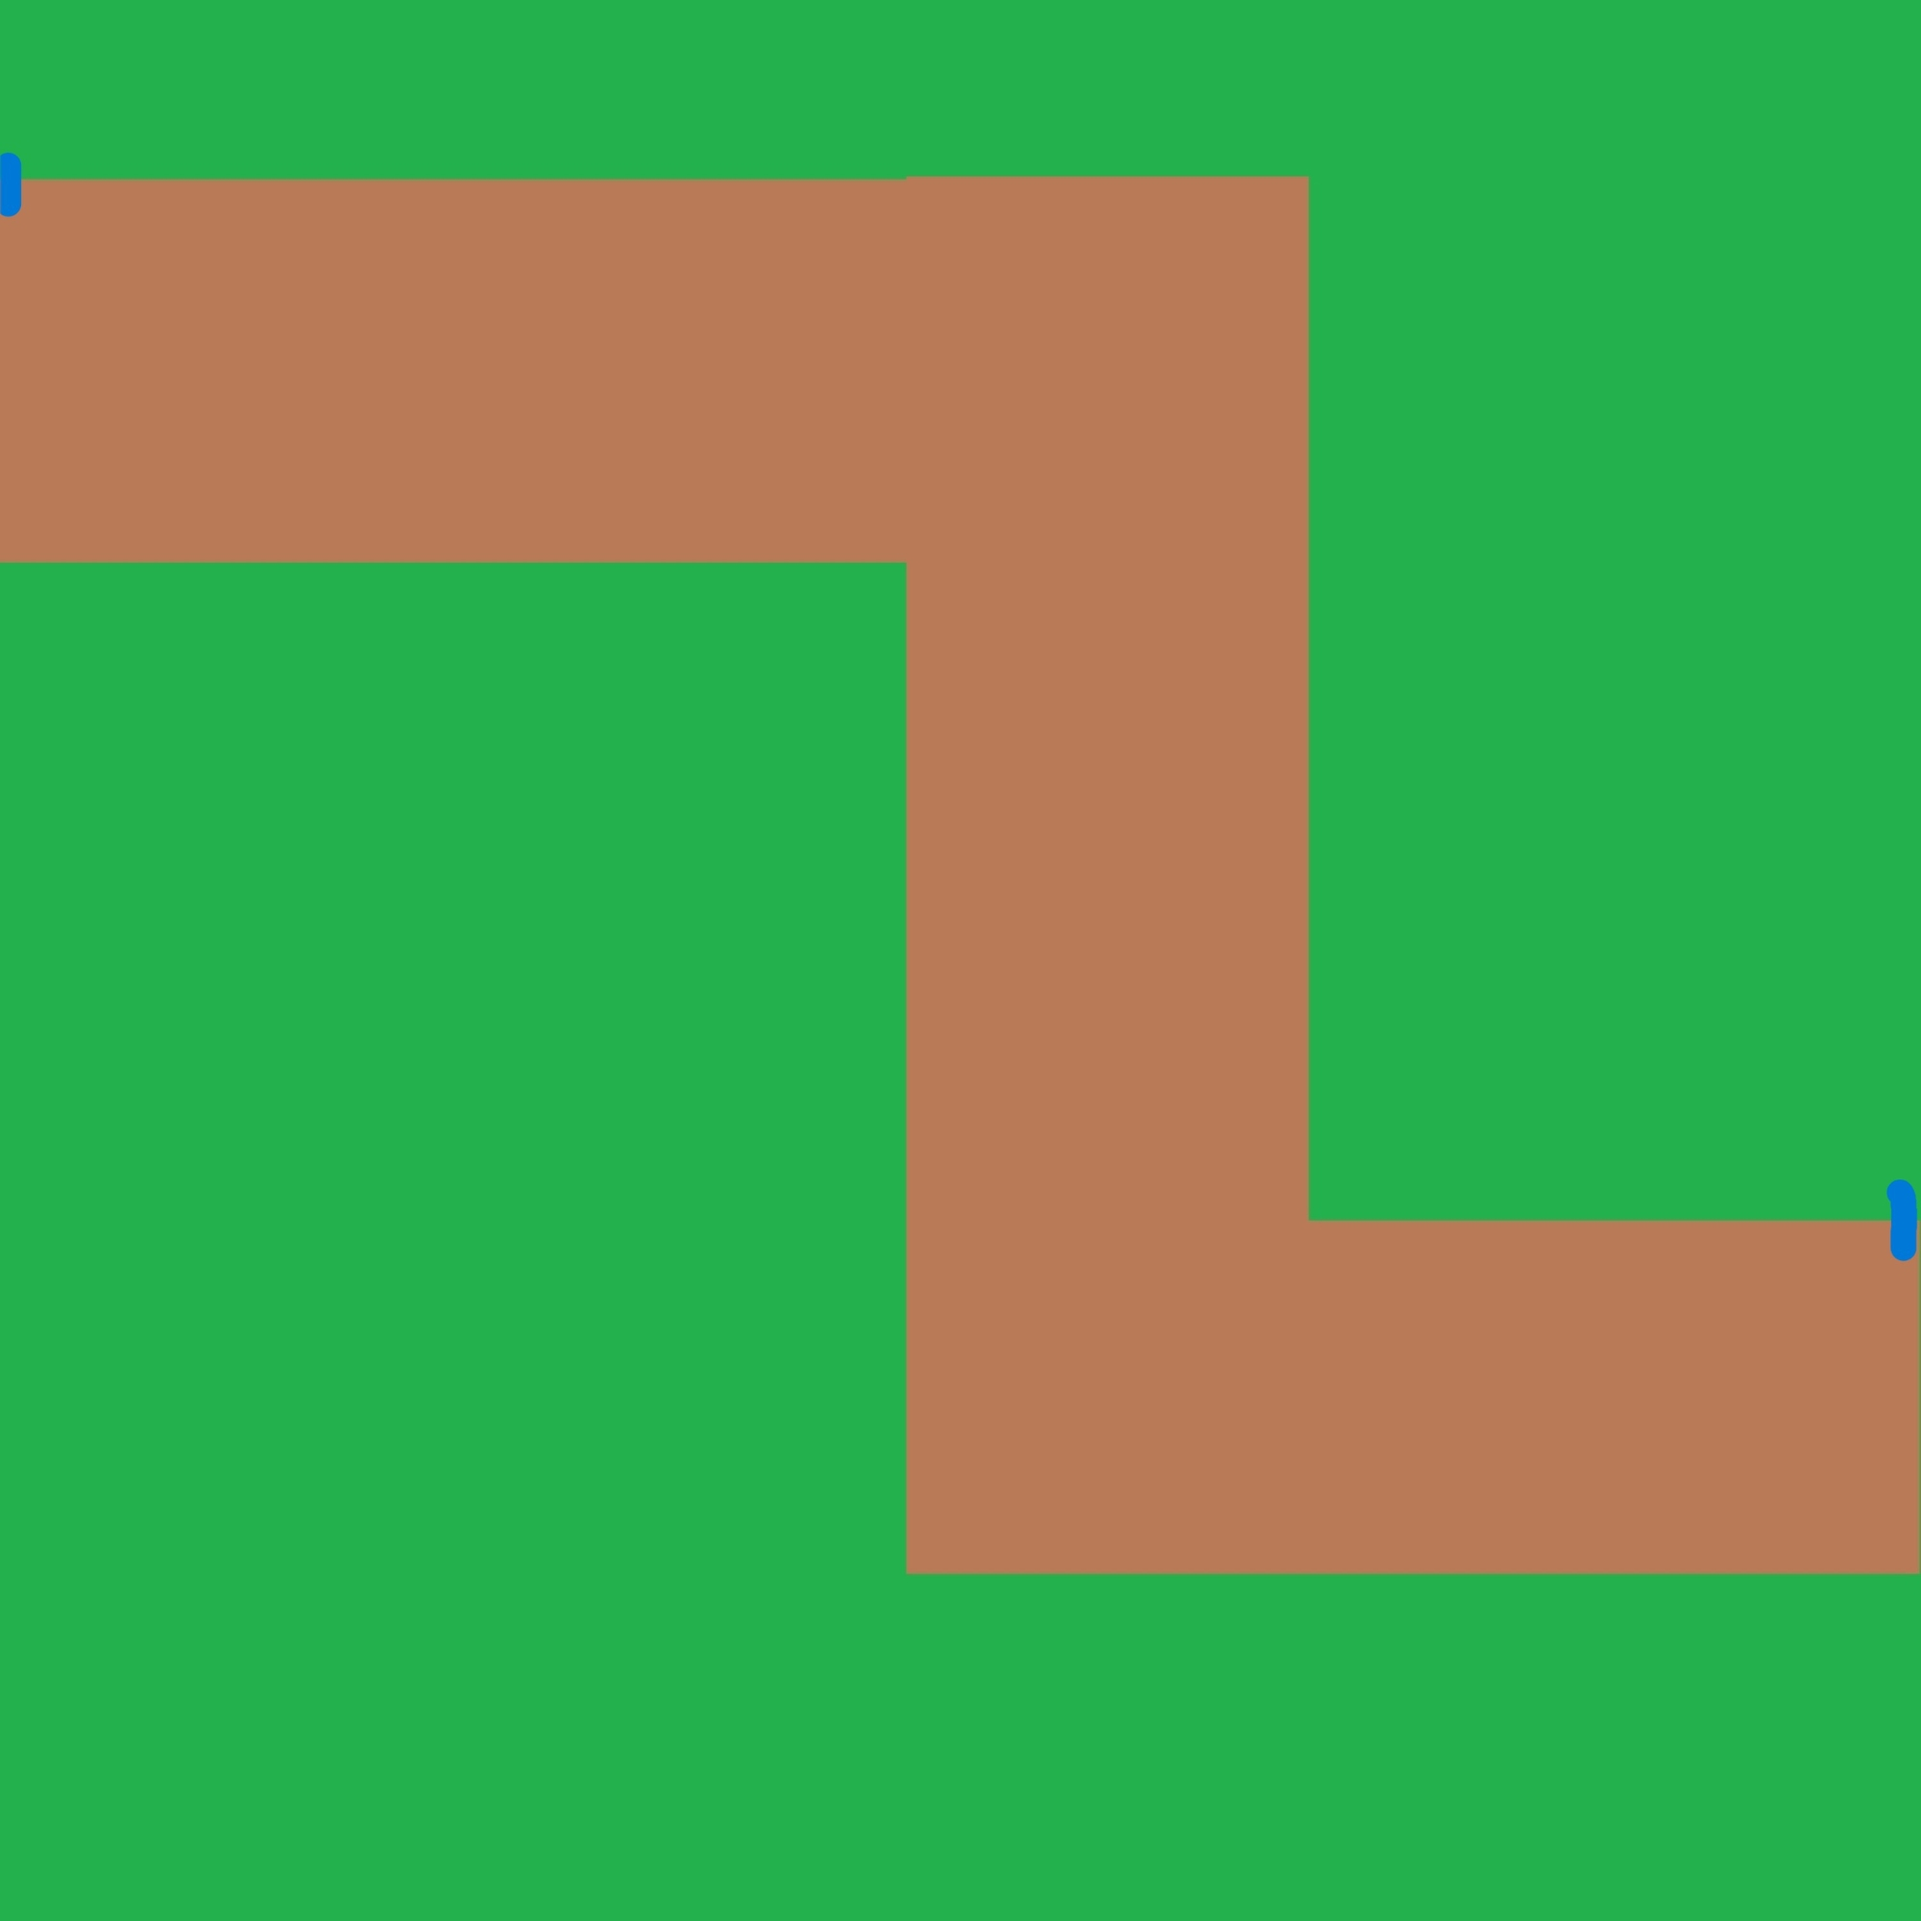
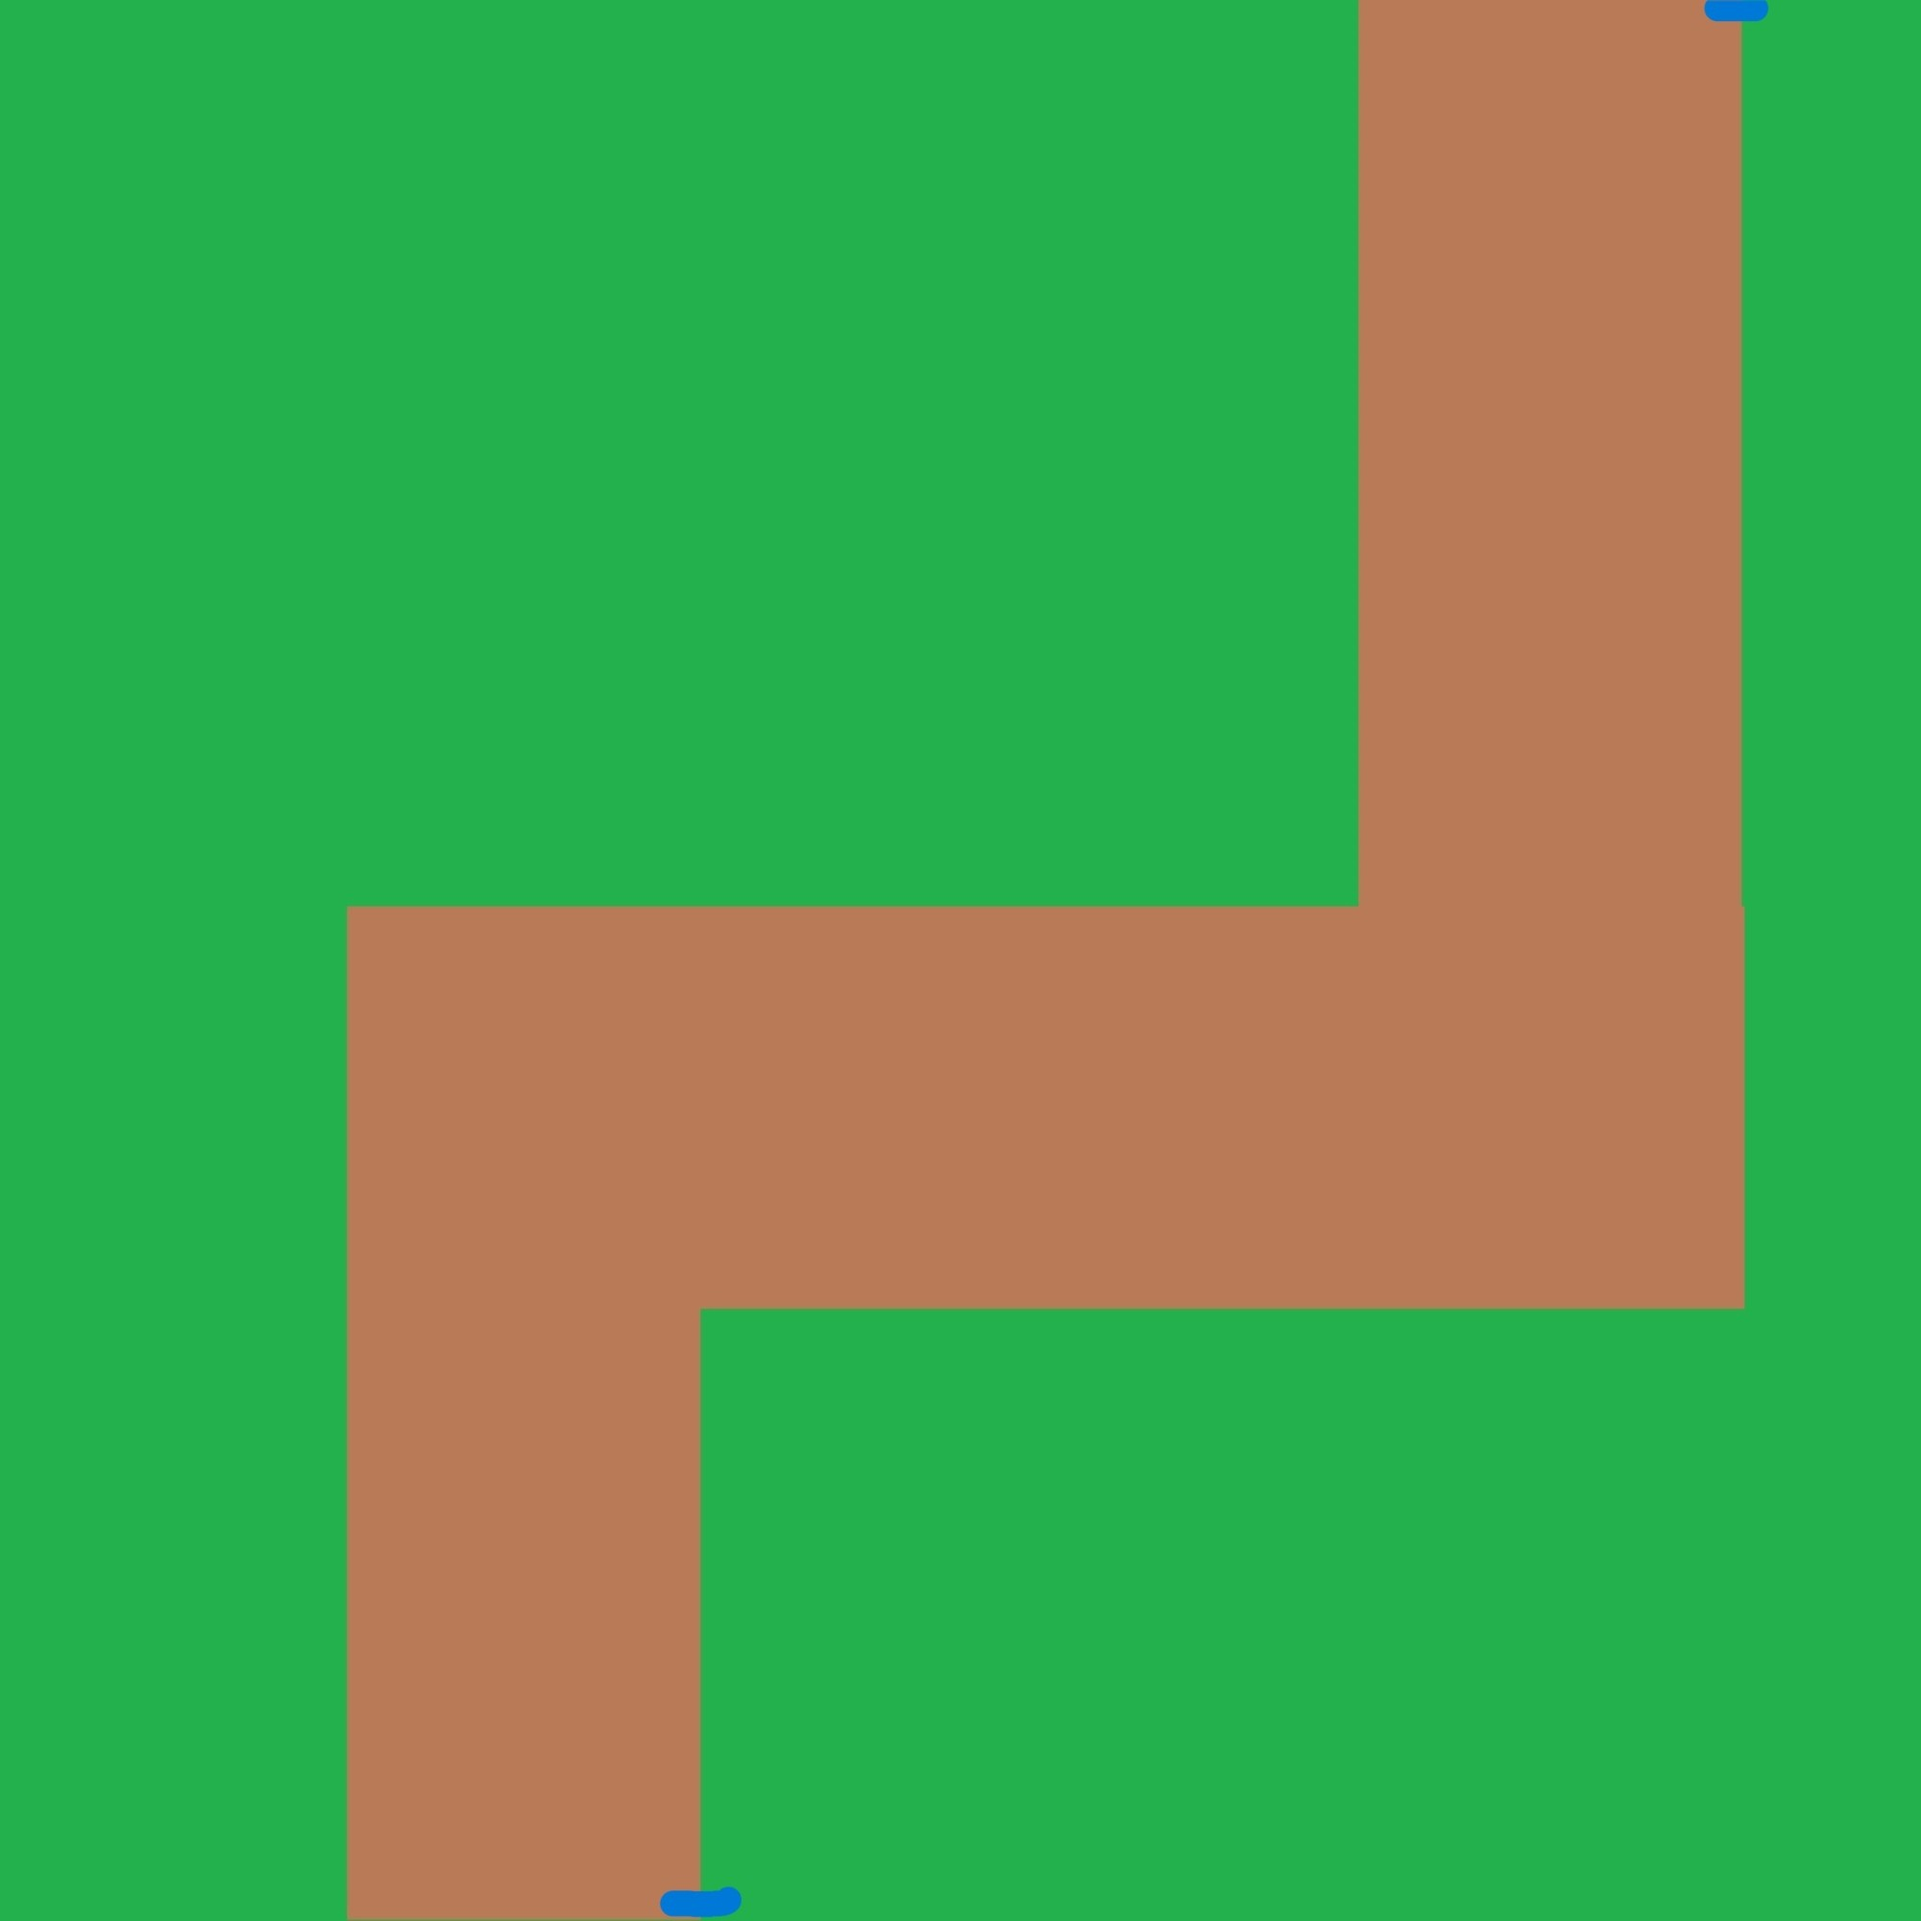
Modified camera system

diff --git a/scenemanager.js b/scenemanager.js
@@ -7,11 +7,12 @@ class SceneManager {
         this.x = 0;
         this.y = 0;
         this.midpointX = PARAMS.CANVAS_WIDTH / 2 - PARAMS.PLAYER_SIZE / 2;
-        this.midpointY = PARAMS.CANVAS_HEIGHT / 2 - PARAMS.PLAYER_SIZE / 2;
+        this.midpointY = PARAMS.CANVAS_HEIGHTw / 2 - PARAMS.PLAYER_SIZE / 2;
 
         // Add entities and load scene
         this.currentMap = new Map(this.game, 2000, 2000, ASSET_MANAGER.getAsset("./maps/temp-map.jpg"));
-        this.player = new Player(game, 300, 300);
+        this.player = new Player(game, 400, 1600);
+        this.game.player = this.player;
         this.loadTempScene();
     }
 
@@ -28,17 +29,12 @@ class SceneManager {
     update() {
 
         // Move camera; the car is always in enter
-        let mapX = this.currentMap.x - this.player.x + this.midpointX;  // Next x for the map
-        let mapY = this.currentMap.y - this.player.y + this.midpointY;  // Next y for the map
-        if (mapX <= 0 && mapX >= -this.currentMap.width + PARAMS.CANVAS_WIDTH)
-            this.x = this.player.x - this.midpointX;
-            // console.log(mapX);
-        if (mapY <= 0 && mapY >= -this.currentMap.height + PARAMS.CANVAS_HEIGHT) 
-            this.y = this.player.y - this.midpointY;
+        this.x = this.player.x - this.midpointX;
+        this.y = this.player.y - this.midpointY;
         
     }
 
     draw(ctx) {
-        
+        // Draw HUD here
     }
 }

diff --git a/gameengine.js b/gameengine.js
@@ -130,10 +130,18 @@ class GameEngine {
 
     draw() {
         // Clear the whole canvas with transparent color (rgba(0, 0, 0, 0))
-        this.ctx.clearRect(0, 0, this.ctx.canvas.width, this.ctx.canvas.height);
+        this.ctx.clearRect(0, 0, this.ctx.canvas.width, this.ctx.canvas.width);
+
+        // Rotate the canvas so it looks like the car is running forward
+        this.ctx.save();
+        this.ctx.translate(this.ctx.canvas.width / 2, this.ctx.canvas.height / 2);
+        this.ctx.rotate(-this.player.degree);
+        this.ctx.translate(-this.ctx.canvas.width/ 2, -this.ctx.canvas.height / 2);
         for (var i = 0; i < this.entities.length; i++) {
             this.entities[i].draw(this.ctx);
         }
+        this.ctx.restore();
+        
         this.camera.draw(this.ctx);
     };
 

diff --git a/player.js b/player.js
@@ -53,7 +53,7 @@ class Player {
 
 
         /** The direction the car is facing. Assume that upward is 0 degree and positive degree means rotated clockwise. */
-        this.degree = Math.PI / 2;
+        this.degree = 0;
 
         /** Time passed since the car start turning (moving from one state to another). */
         this.elapsedTurningTime = 0;
